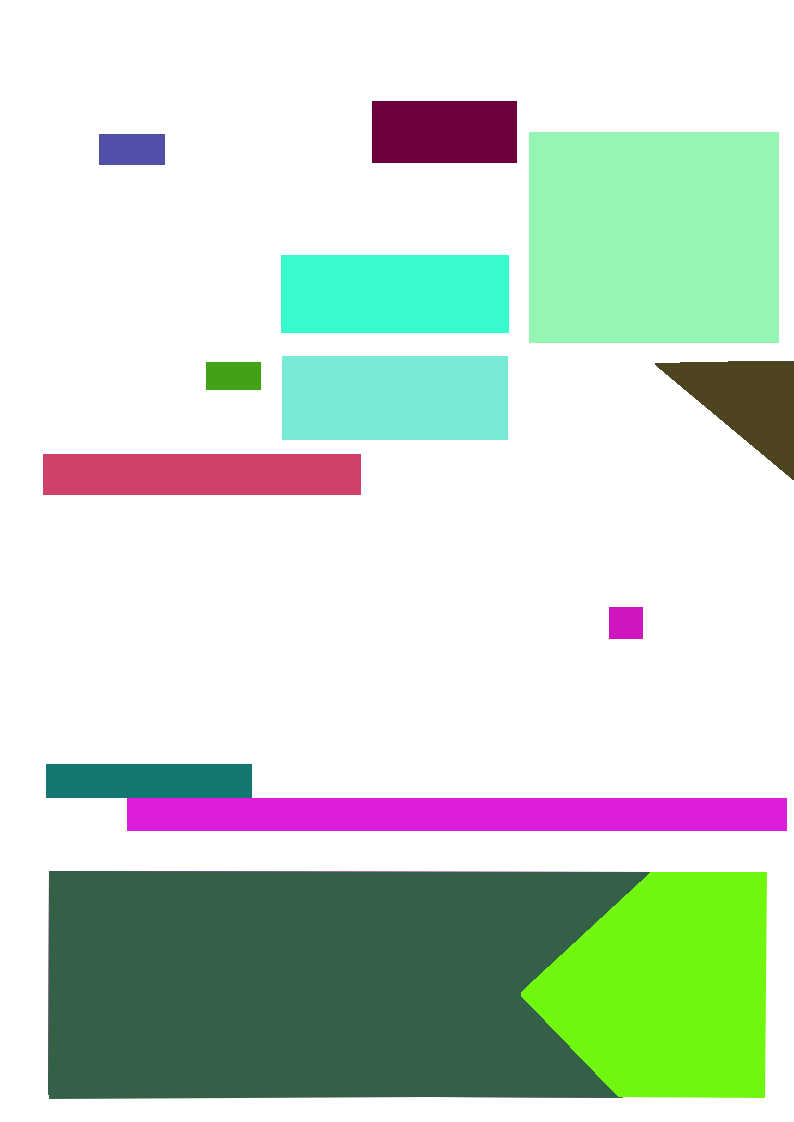
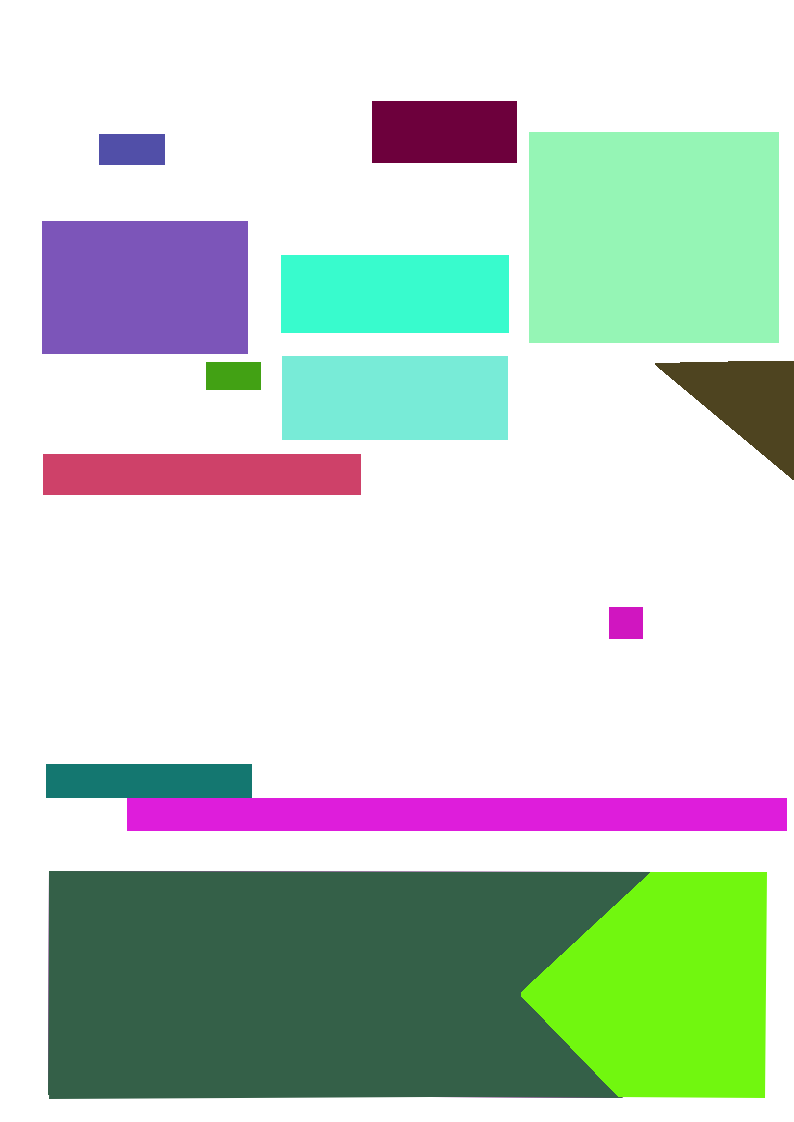
Add new alias field

Changed region(s): [[0.0302, 0.1872, 0.3325, 0.3431]]

diff --git a/DocumentUvMapper.cs b/DocumentUvMapper.cs
@@ -18,14 +18,15 @@ public class DocumentUvMapper
             {"7c", clickEvent => DefaultClickBehaviour("7c",clickEvent)},
             {"compliments", clickEvent => DefaultClickBehaviour("compliments",clickEvent)},
             {"complaints", clickEvent => DefaultClickBehaviour("complaints",clickEvent)},
-            //{"aliases", clickEvent => DefaultClickBehaviour("aliases",clickEvent)},
+            {"alias", clickEvent => { 
+                GD.Print("OnClickalias");
+                DefaultClickBehaviour("alias",clickEvent); } },
         };
     }
 
     public void ClickDocument(DocumentClickEvent clickEvent)
     {
         var colour = _clickRegions.GetPixel(clickEvent.TextureCoordinates.X, clickEvent.TextureCoordinates.Y);
-        
 
         if(colour == new Color(1,1,1)) return; // If white (background, ignore)
 
@@ -72,7 +73,7 @@ public class DocumentUvMapper
         new Tuple<Color, string>(new Color(78/255f, 68/255f, 32/255f, 1) ,"19.2"),
         new Tuple<Color, string>(new Color(56/255f, 251/255f, 205/255f, 1),"compliments"),
         new Tuple<Color, string>(new Color(120/255f, 235/255f, 215/255f, 1),"complaints"),
-        //new Tuple<Color, string>(new Color(120/255f, 235/255f, 215/255f, 1),"aliases"),
+        new Tuple<Color, string>(new Color(124/255f, 85/255f, 185/255f, 1),"alias"),
     };
 
     private Dictionary<string,Action<DocumentClickEvent>> _actionIndex;
@@ -87,6 +88,6 @@ public class DocumentUvMapper
         {"7c", ResourceLoader.Load<Texture2D>("res://TextOverlaySprites/7c.png")},
         {"compliments", ResourceLoader.Load<Texture2D>("res://TextOverlaySprites/compliments.png")},
         {"complaints", ResourceLoader.Load<Texture2D>("res://TextOverlaySprites/complaints.png")},
-        //{"aliases", ResourceLoader.Load<Texture2D>("res://TextOverlaySprites/aliases.png")},
+        {"alias", ResourceLoader.Load<Texture2D>("res://TextOverlaySprites/alias.png")},
     };
 }

diff --git a/Scripts/DocumentEvaluator.cs b/Scripts/DocumentEvaluator.cs
@@ -60,7 +60,7 @@ public static class DocumentEvaluator
 
         
         // This need functionality behind it
-        //new Tuple<Func<Document,bool>,string,bool>(doc => doc.CheckHasFieldInState("Aliases", FilledType.PEN), "We do not associate with criminals. Please start again.", true),
+        new Tuple<Func<Document,bool>,string,bool>(doc => doc.CheckHasFieldInState("alias", FilledType.UNFILLED), "We do not associate with criminals. Please start again.", true),
         
         // Rule 2
 

diff --git a/Document.cs b/Document.cs
@@ -187,5 +187,6 @@ public partial class Document : RigidBody2D
 		{"7c", new FieldState() {FilledType = FilledType.UNFILLED}},
 		{"compliments", new FieldState() {FilledType = FilledType.UNFILLED}},
 		{"complaints", new FieldState() {FilledType = FilledType.UNFILLED}},
+		{"alias", new FieldState() {FilledType = FilledType.UNFILLED}},
     };
 }
